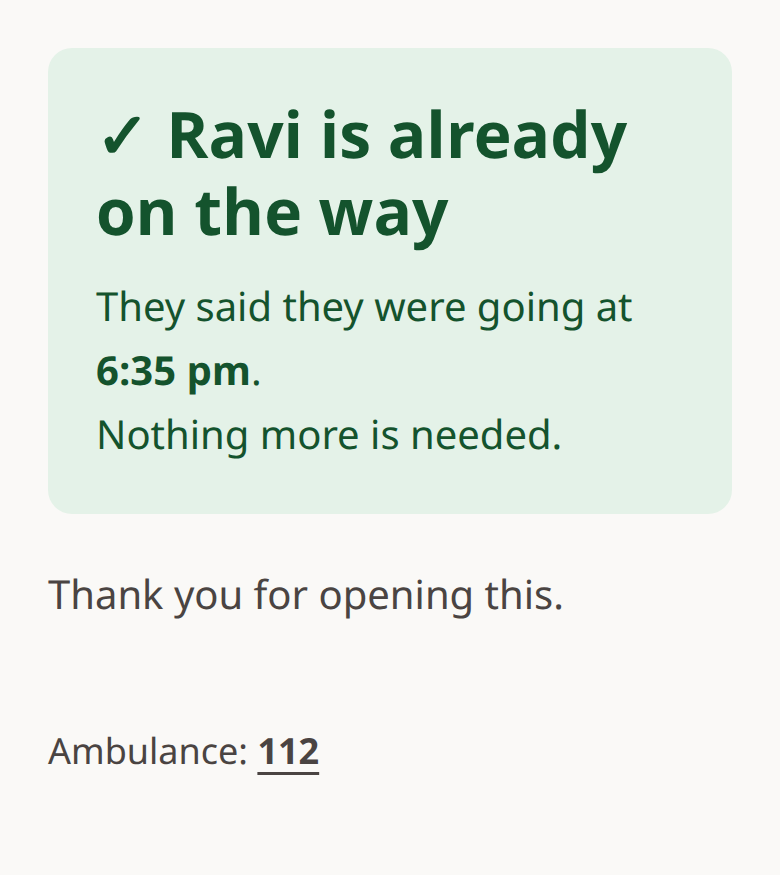
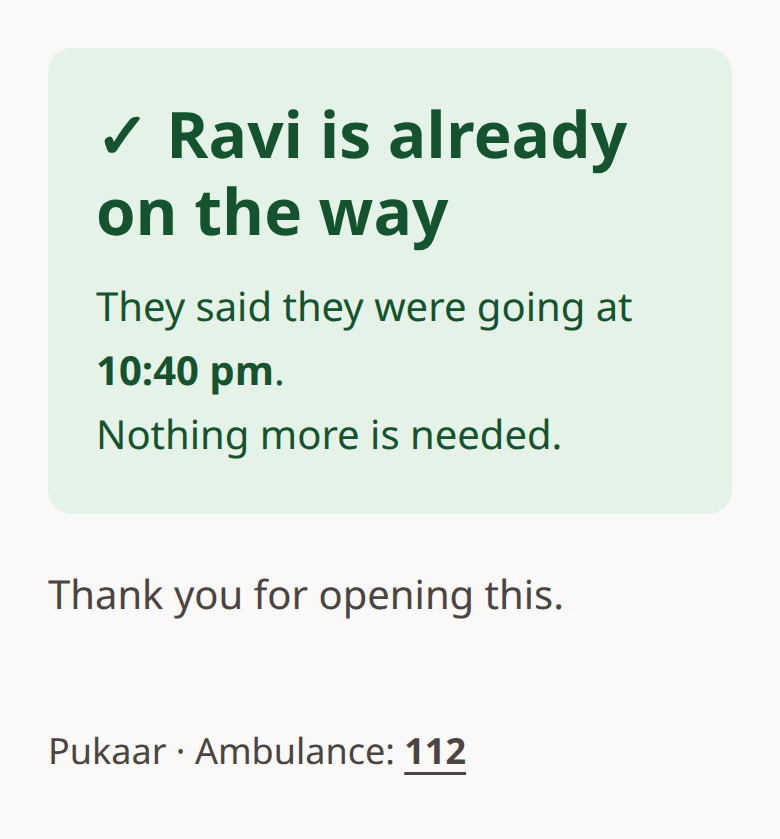
README screenshots re-shot from one incident; one ambulance line on the going page
The five screens now show the live pages after the review pass. The
going page carried 'Ambulance: 112' twice (the record section and the
footer); the footer stays. verify.sh 11/11 (v-224359-*).

diff --git a/lambdas/web.py b/lambdas/web.py
@@ -558,8 +558,6 @@ CLAIM_YOURS = Template(_page("You’re going", """
 <h2>$name’s medical notes</h2>
 <p class="muted">Released because you’re going. $name is told you opened this.</p>
 $record
-<hr>
-<p><strong>Ambulance: <a href="tel:112">112</a></strong></p>
 """))
 
 CLAIM_TAKEN = Template(_page("$claimer is already on the way", """
